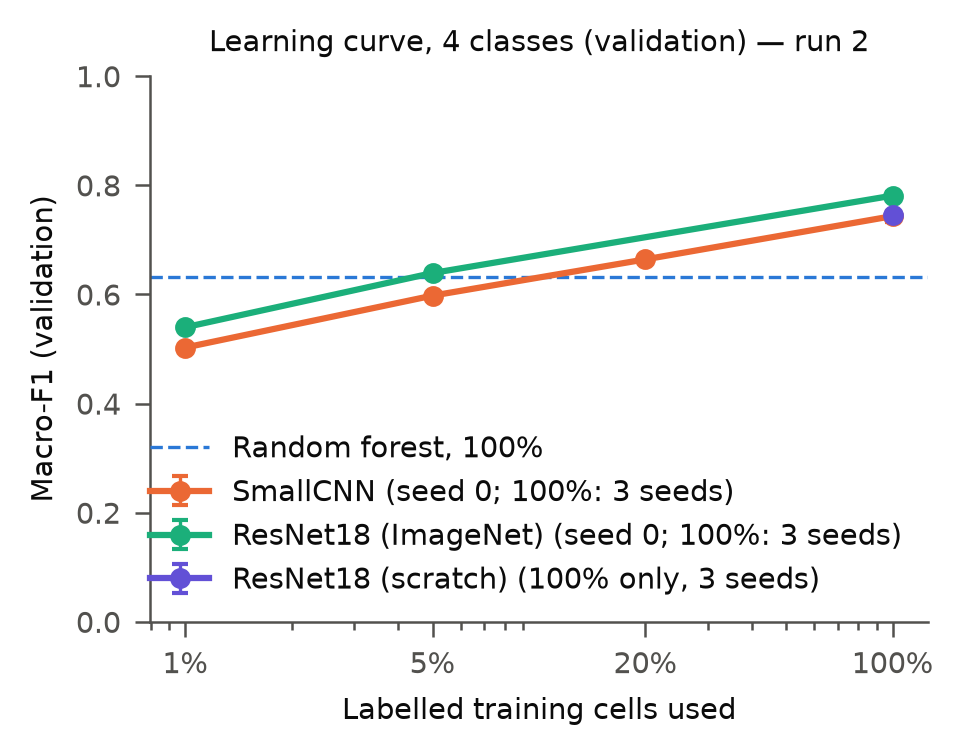
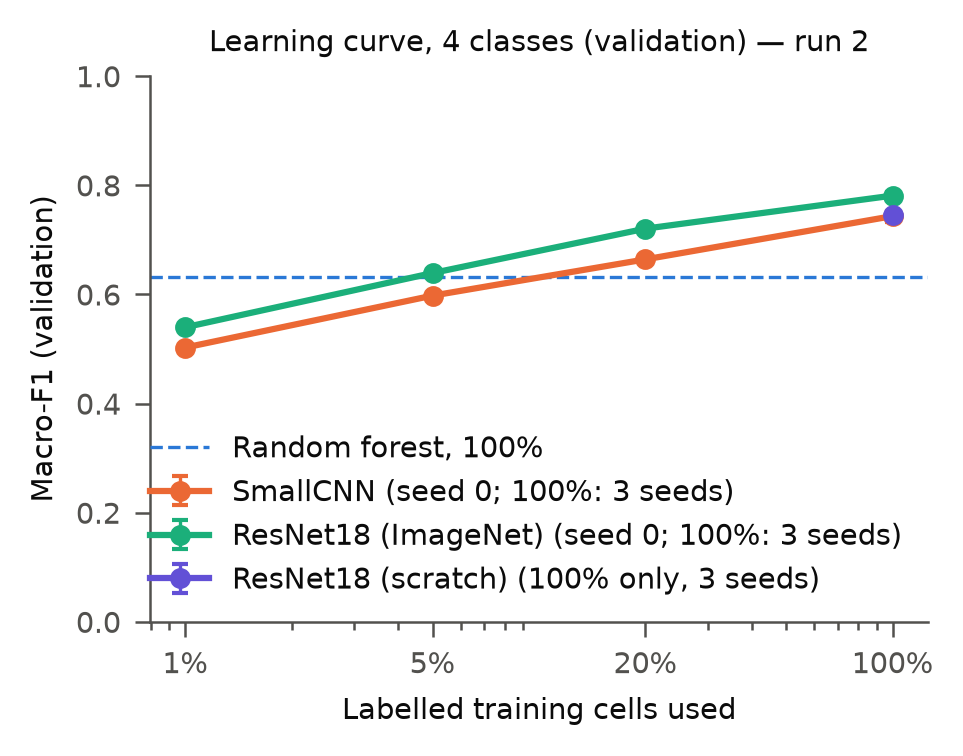
Run 2 wrap-up: pretrained learning curve 20% (val), all run-2 tables/figures regenerated, final report

Changed region(s): [[0.4673, 0.2434, 0.9034, 0.3651]]

diff --git a/notes/overnight_log_2.md b/notes/overnight_log_2.md
@@ -39,3 +39,5 @@ Branch `overnight-run-2` (from `overnight-2026-10-25` @ 4ae09bc). All numbers ar
 | 05:12 | **Started the ResNet18-pretrained learning curve by hand** (`logs/lc_pretrained_run2.sh`, same command as the queue): realistic duration ≈ 60 min because small-fraction runs stop early (run 1: 1 % stopped at epoch 7), the GPU would otherwise be idle, and the pretrained LC is RQ2/Tier 1. Rule: if not finished by 06:30, I stop it and report it incomplete (deviation from the strict worst-case guard, logged) | | wrap-up prep |
 | 05:40 | Pretrained LC 1 %: 0.540 (best epoch 15, 21 epochs, 1593 s, much longer than run 1's early stop). At this pace 20 % would not end by 06:30, so I stopped the LC script's bash process (the running 5 % run continues; 20 % will not start). The pretrained learning curve stays partial (1 %, 5 %), seed 0 | partial, not a final result | wrap-up |
 | 05:53 | Pretrained LC 5 %: 0.639 (best epoch 5, early stop at 11, 876 s). It ended early, so the 20 % run now fits even in the worst case (25 × 75 s ≈ 31 min → 06:25): started it by hand (same command as `scripts/queue_run2_lc_pretrained.sh`) | | wrap-up in parallel (CPU) |
+| 06:20 | Pretrained LC 20 %: **0.721** (best epoch 15, early stop at 21, 1585 s). Pretrained LC complete (seed 0): 0.540 / 0.639 / 0.721 / 0.781; SmallCNN 0.503 / 0.598 / 0.664 / 0.744. GPU idle from 06:20 | | wrap-up |
+| 06:22 | Wrap-up: pytest, all run-2 tables/figures regenerated by scripts (Grad-CAM/UMAP/pseudotime/border check unchanged since the best CNN and its seed-0 run did not change after 03:20), report final, PROJECT.md decisions, final commit + push | | done |

diff --git a/notes/paper_draft/results_val_draft.md b/notes/paper_draft/results_val_draft.md
@@ -22,10 +22,10 @@ With the same tuning grid, augmentation, balancing and training length (up to 25
 
 *Learning curve (seed 0 only; Fig. learning_curve_val_run2; `results/learning_curve_val_run2.csv`).* Each subset run had as many gradient steps per epoch as a full run, up to 25 epochs with early stopping. Validation macro-F1 at 1 / 5 / 20 / 100% of the labelled training cells (100% = mean of the 3 final runs):
 - SmallCNN: 0.503 / 0.598 / 0.664 / 0.744
-- pretrained ResNet18: 0.540 / 0.639 / LC20 / 0.781
+- pretrained ResNet18: 0.540 / 0.639 / 0.721 / 0.781
 - scratch ResNet18: only 100% (0.745); subsets not run.
 
-At every fraction the pretrained network was ahead of SmallCNN, by 0.04 at 1–5%. With 5% of the labels (1,129 cells) the pretrained ResNet18 reached the level of the random forest trained on all labels (0.632). These are single-seed points, and several small-subset runs stopped very early (SmallCNN 5%: best epoch 2), so differences of a few hundredths are within noise.
+At every fraction the pretrained network was ahead of SmallCNN: by 0.04 at 1–5% and by 0.06 at 20% (0.721 vs 0.664). With 5% of the labels (1,129 cells) the pretrained ResNet18 reached the level of the random forest trained on all labels (0.632). These are single-seed points, and several small-subset runs stopped very early (SmallCNN 5%: best epoch 2), so differences of a few hundredths are within noise.
 
 *Take-home:* on validation, ImageNet pretraining gives a modest but clear gain in macro-F1 and a larger gain in mitosis recall, with the same training budget.
 

diff --git a/notes/overnight_report_run2.md b/notes/overnight_report_run2.md
@@ -39,7 +39,7 @@ Branch `overnight-run-2` (from `overnight-2026-10-25`; pushed, not merged). Ever
 | ResNet18 (scratch) | 0.696 ± 0.012 | 0.745 ± 0.003 | +0.050 | 0.60 ± 0.02 (0.64) | 20/20/18 (25/25/25) |
 | 7 classes: SmallCNN | 0.560 ± 0.007 | 0.593 ± 0.034 | +0.033 | | 11/3/4 |
 
-Learning curve, run 2, seed 0, val macro-F1 at 1 / 5 / 20 / 100 %: SmallCNN 0.503 / 0.598 / 0.664 / 0.744; ResNet18-pretrained 0.540 / 0.639 / LC20 / 0.781 (`figures/learning_curve_val_run2`). These are lower than run 1 at small fractions (e.g. SmallCNN 1 %: 0.538 in run 1), probably because small-subset runs stopped very early (best epoch 2 at 5 %). Single seed.
+Learning curve, run 2, seed 0, val macro-F1 at 1 / 5 / 20 / 100 %: SmallCNN 0.503 / 0.598 / 0.664 / 0.744; ResNet18-pretrained 0.540 / 0.639 / 0.721 / 0.781 (`figures/learning_curve_val_run2`). These are lower than run 1 at small fractions (e.g. SmallCNN 1 %: 0.538 in run 1), probably because small-subset runs stopped very early (best epoch 2 at 5 %). Single seed.
 
 Full tables: `results/table_val_summary_run2.md`, `results/table_run1_vs_run2_val.md`. Run-2 configs: all three families lr 1e-3, wd 1e-4, batch 64, vflip, weighted. The ranking is unchanged (pretrained > scratch ≈ SmallCNN > RF). The pretrained − scratch gap shrank from 0.065 to 0.036. Scratch never stopped early, but its best epochs were 18–20, so 25 epochs is no longer a hard cap. Several settings changed at once (augmentation, lr, epochs, patience), so the gains cannot be assigned to one cause.
 
